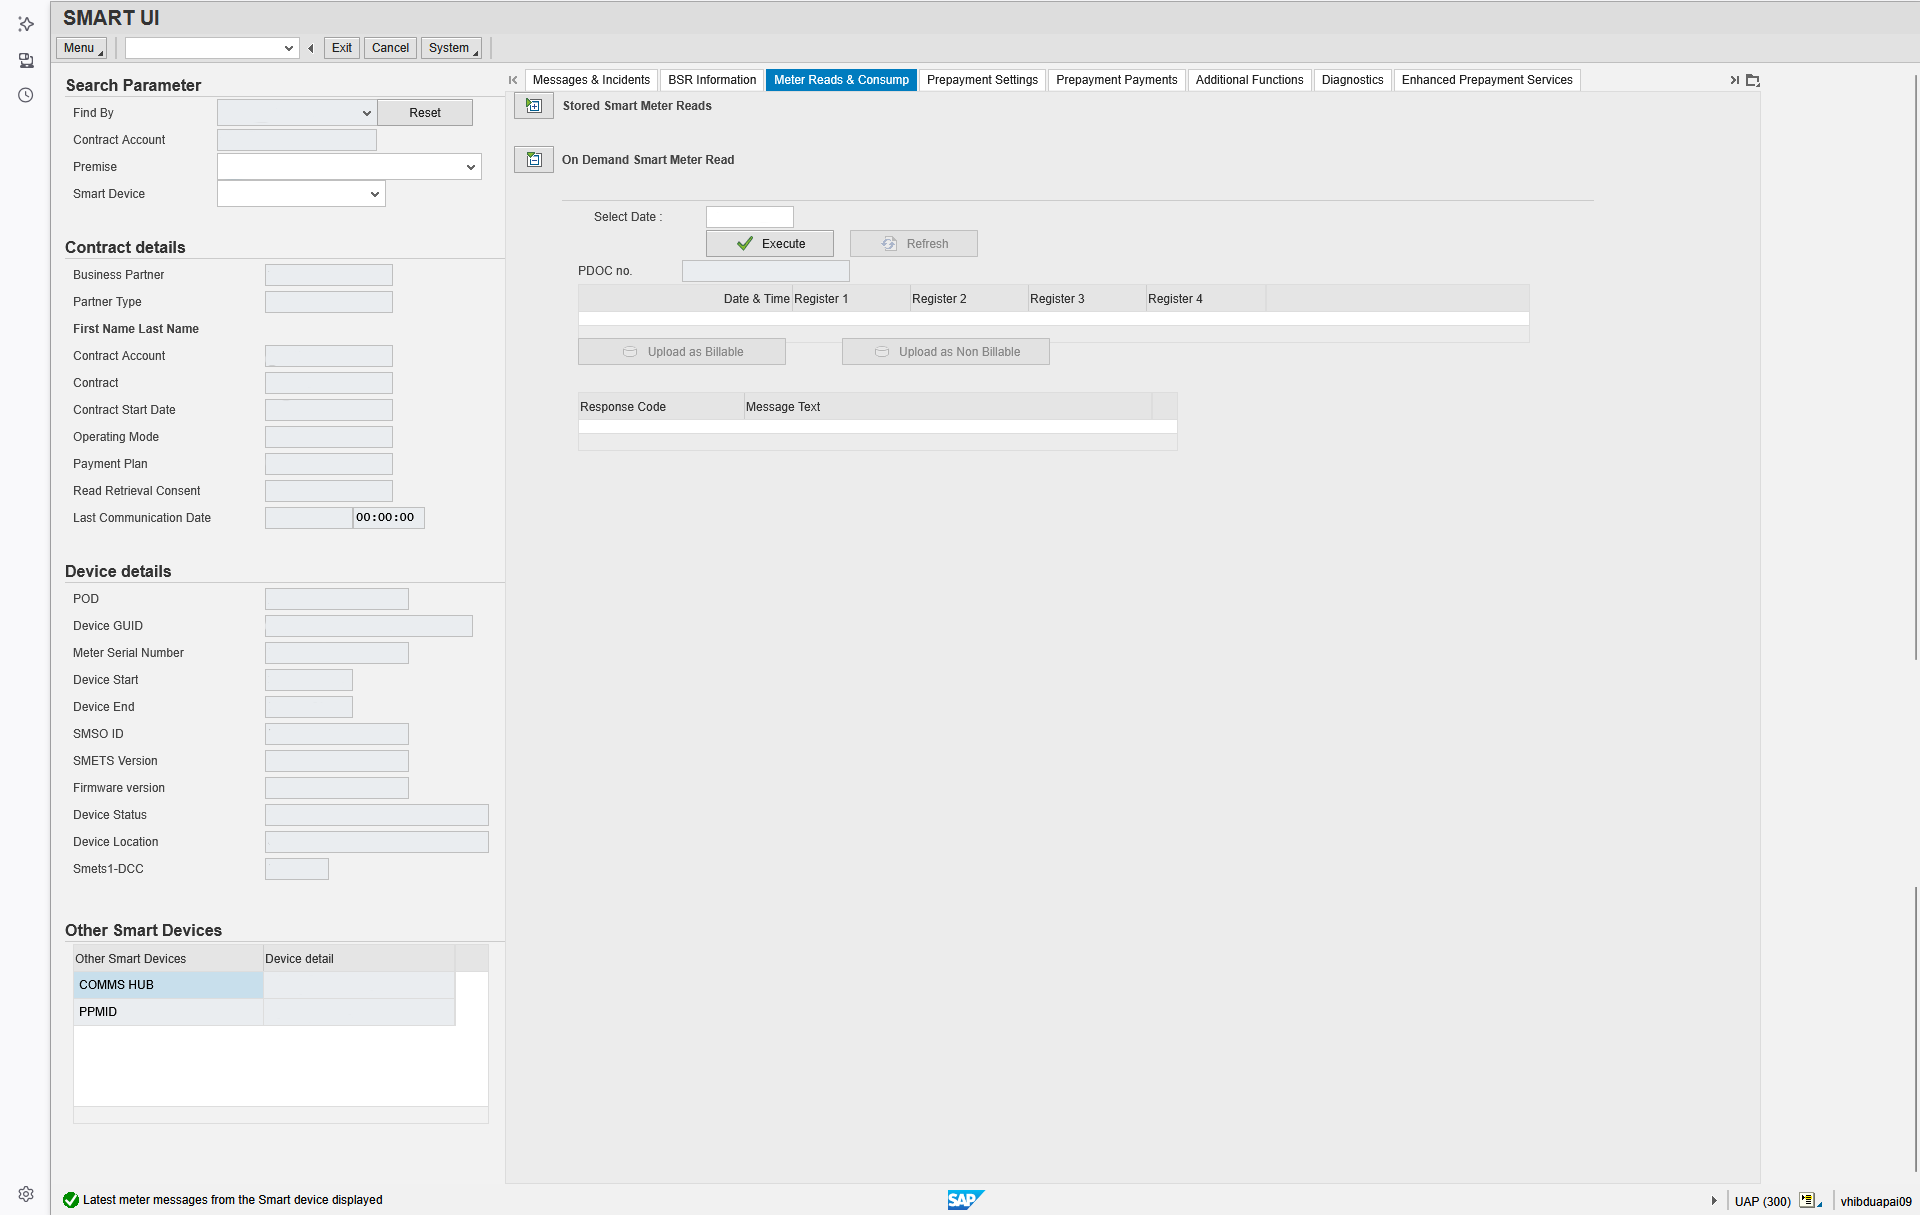
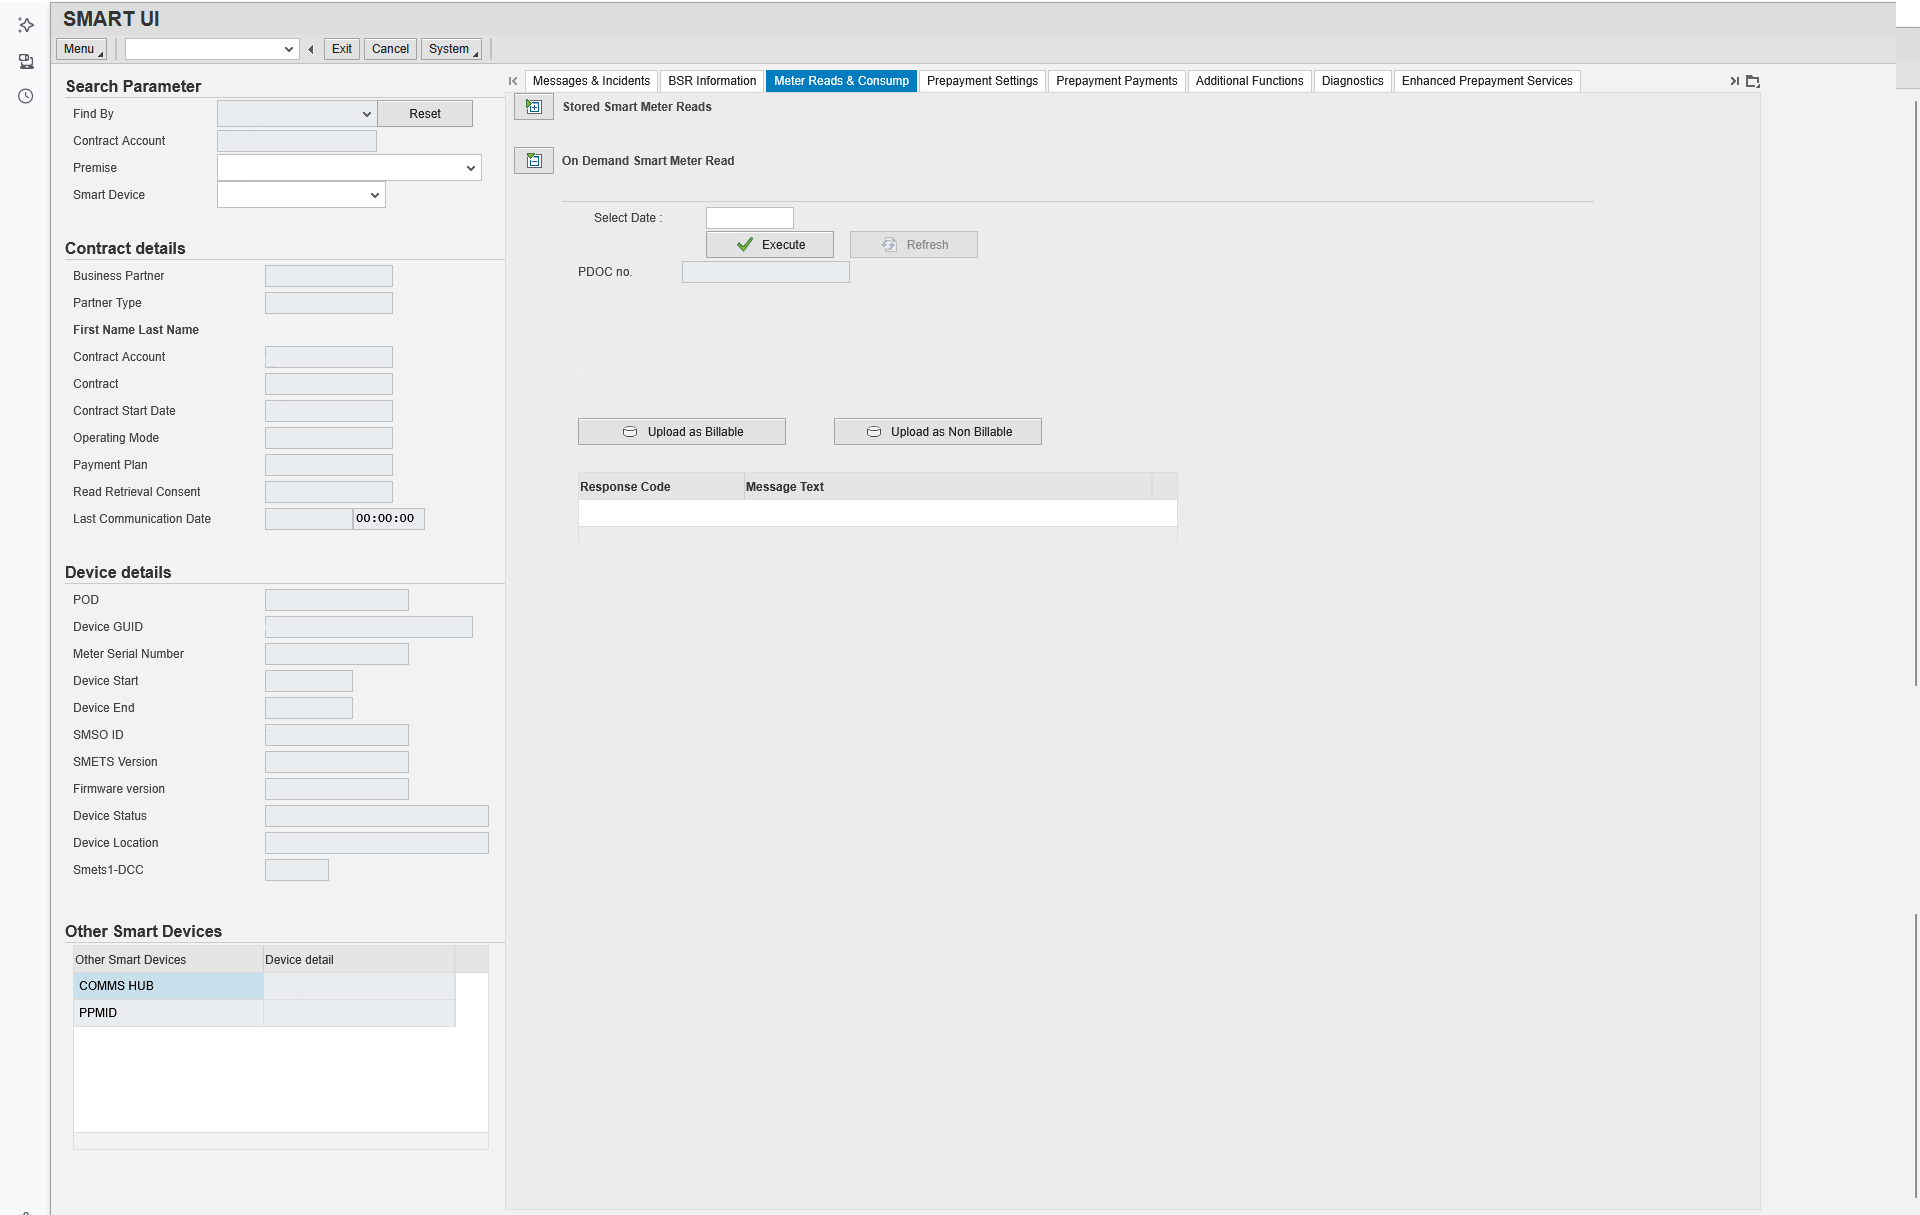
Committing gemini changes to test

diff --git a/scripts/dropdown-bsr-handler.js b/scripts/dropdown-bsr-handler.js
@@ -1,49 +1,116 @@
+// Complete code for dropdown handling (e.g., dropdown-bsr-handler.js)
 
+// --- Block 1: General Handler for ALL elements with class="custom-dropdown" ---
 document.addEventListener("DOMContentLoaded", () => {
+  // Find all generic custom dropdowns on the page
   document.querySelectorAll(".custom-dropdown").forEach(dropdown => {
-    const selected = dropdown.querySelector(".selected-option");
-    const options = dropdown.querySelector(".dropdown-options");
+      const selected = dropdown.querySelector(".selected-option");
+      const options = dropdown.querySelector(".dropdown-options");
 
-    if (!selected || !options) return;
-
-    // Toggle dropdown visibility on click
-    selected.addEventListener("click", () => {
-      const isOpen = options.style.display === "block";
-      // Close all other dropdowns
-      document.querySelectorAll(".dropdown-options").forEach(opt => opt.style.display = "none");
-      // Toggle current
-      options.style.display = isOpen ? "none" : "block";
-    });
-
-    // Handle option selection
-    options.addEventListener("click", (e) => {
-      const opt = e.target.closest("div");
-      if (opt && opt.dataset.value !== undefined) {
-        selected.textContent = opt.textContent;
-        selected.dataset.value = opt.dataset.value;
-        options.style.display = "none";
+      // If the expected inner elements aren't found, skip this dropdown
+      if (!selected || !options) {
+          // console.warn("Skipping custom dropdown setup for an element lacking .selected-option or .dropdown-options.", dropdown);
+          return;
       }
-    });
+
+      // Toggle dropdown visibility when the selected part is clicked
+      selected.addEventListener("click", (event) => {
+          event.stopPropagation(); // Prevent click from immediately closing dropdown via document listener
+          const isOpen = options.style.display === "block";
+          // Close all *other* custom dropdowns first
+          document.querySelectorAll(".custom-dropdown .dropdown-options").forEach(opt => {
+              if (opt !== options) { // Don't close the current one yet
+                  opt.style.display = "none";
+              }
+          });
+          // Toggle the display of the current dropdown's options
+          options.style.display = isOpen ? "none" : "block";
+      });
+
+      // Handle option selection when an option is clicked
+      options.addEventListener("click", (e) => {
+          // Find the actual option div that was clicked (might be text inside)
+          const opt = e.target.closest("div[data-value]"); // Ensure the clicked div has a data-value
+
+          if (opt) { // Check if a valid option was clicked
+              selected.textContent = opt.textContent; // Update displayed text
+              // If the selected element itself should store the value (optional)
+              if ('value' in selected) {
+                   selected.value = opt.dataset.value; // For input/select elements
+              }
+              // Store value in dataset for potential JS use
+              selected.dataset.value = opt.dataset.value;
+              options.style.display = "none"; // Hide options after selection
+
+              // Optional: Dispatch a change event if other code needs to react
+              // selected.dispatchEvent(new Event('change', { bubbles: true }));
+          }
+      });
   });
 
-  // Close dropdowns if clicked outside
+  // Add a listener to the whole document to close dropdowns when clicking outside
   document.addEventListener("click", (e) => {
-    if (!e.target.closest(".custom-dropdown")) {
-      document.querySelectorAll(".dropdown-options").forEach(opt => opt.style.display = "none");
-    }
+      // If the click was not inside *any* element with class "custom-dropdown"
+      if (!e.target.closest(".custom-dropdown")) {
+          // Hide all dropdown option lists
+          document.querySelectorAll(".custom-dropdown .dropdown-options").forEach(opt => {
+              opt.style.display = "none";
+          });
+      }
   });
 });
 
-// In your dropdown-bsr-handler.js or a similar file
-const dropdown = document.getElementById("readPPS_Display_Latest_Stored_Values");
-const selectedOptionDiv = dropdown.querySelector('.selected-option');
-const optionsDiv = dropdown.querySelector('.dropdown-options');
 
-// Add event listener for clicking options
-optionsDiv.querySelectorAll('div').forEach(option => {
-  option.addEventListener('click', () => {
-    const selectedValue = option.getAttribute('data-value');
-    selectedOptionDiv.textContent = option.textContent;  // Show selected option in the dropdown
-    localStorage.setItem("readPPS_Display_Latest_Stored_Values", selectedValue); // Save selection to localStorage
-  });
-});
+// --- Block 2: Corrected Specific Handler for the "#readPPS_Display_Latest_Stored_Values" dropdown ---
+// (This block now includes the check to prevent errors if the element doesn't exist)
+document.addEventListener("DOMContentLoaded", () => {
+  // Attempt to find the specific dropdown element required by this handler
+  const dropdown = document.getElementById("readPPS_Display_Latest_Stored_Values");
+
+  // *** IMPORTANT CHECK ***
+  // Only proceed with the rest of the setup if the dropdown element actually exists on this page
+  if (dropdown) {
+
+      // Now it's safe to query for elements inside the found dropdown
+      const selectedOptionDiv = dropdown.querySelector('.selected-option');
+      const optionsDiv = dropdown.querySelector('.dropdown-options');
+
+      // Further check if the necessary inner elements were found
+      if (selectedOptionDiv && optionsDiv) {
+
+          // Add event listener for clicking options within this specific dropdown
+          optionsDiv.querySelectorAll('div').forEach(option => {
+              // Ensure we're adding listener to elements that actually have a data-value
+              if (option.hasAttribute('data-value')) {
+                  option.addEventListener('click', () => {
+                      const selectedValue = option.getAttribute('data-value');
+
+                      // Update the displayed text in the dropdown
+                      selectedOptionDiv.textContent = option.textContent;
+
+                      // Update localStorage with the selected value
+                      localStorage.setItem("readPPS_Display_Latest_Stored_Values", selectedValue);
+
+                      // Optional: Hide the options list after selection
+                      optionsDiv.style.display = 'none';
+                  });
+              }
+          });
+
+          // You could add other event listeners or setup specific
+          // to '#readPPS_Display_Latest_Stored_Values' here if needed
+          // For example, maybe clicking the selectedOptionDiv should also toggle optionsDiv?
+          // selectedOptionDiv.addEventListener('click', () => { ... });
+
+      } else {
+          // Log a warning if the structure inside the found dropdown is not as expected
+          console.warn("Could not find '.selected-option' or '.dropdown-options' inside #readPPS_Display_Latest_Stored_Values.");
+      }
+
+  } else {
+      // Optional: Log that this specific dropdown isn't on the current page.
+      // This is normal if this script is loaded on pages without this dropdown.
+      // console.log("Dropdown #readPPS_Display_Latest_Stored_Values not found on this page, skipping specific handler setup.");
+  }
+
+}); // End DOMContentLoaded wrapper for the specific handler

diff --git a/html/meterreadsondemandBACKUP2.html b/html/meterreadsondemandBACKUP2.html
@@ -1,13 +1,10 @@
 <!DOCTYPE html>
-
 <html lang="en">
 <head>
 <meta charset="utf-8"/>
 <title>SmartUI Meter Reads On Demand</title>
-<!-- ✅ External stylesheet. Make changes to the fonts and style for project in that file -->
 <link rel="stylesheet" href="../styles/styles.css" />
 <style>
- 
     body {
       margin: 0;
       padding: 0;
@@ -19,29 +16,23 @@
       background: url('../images/meterreadsondemand.png') no-repeat top left;
       background-size: cover;
     }
-   
     .link-area {
       position: absolute;
       width: 100px;
       height: 20px;
       cursor: pointer;
-      
     }
   </style>
 </head>
 <body data-level="standard">
 <div id="wrapper">
-<!-- Select Date -->
 <input class="input-field" id="MR_On_Demand_Date"
   style="top: 206px; left: 707px; height:15px; width:78px; background: transparent; z-index: 10000;"
-  title="Select Date">	
+  title="Select Date">
 <input class="input-field" id="MR_PDOC"
   style="top: 260px; left: 681px; height:15px; width:160px; background: transparent; z-index: 10000;"
   title="PPDOC no">
-	
-<!-- Left side fields from core-input-fields.html inject here -->
 
-<!-- Top Link Areas -->
 <a class="link-area" href="openingpage.html" style="top: 69px; left: 524px; height:18px; width:130px"></a>
 <a class="link-area" href="BSRinformation.html" style="top: 69px; left: 660px; height:18px; width:100px"></a>
 <a class="link-area" href="meterreads.html" style="top: 69px; left: 766px; height:18px; width:146px"></a>
@@ -50,39 +41,54 @@
 <a class="link-area" href="additionalfunctions.html" style="top: 69px; left: 1189px; height:18px; width:119px"></a>
 <a class="link-area" href="diagnostics.html" style="top: 69px; left: 1313px; height:18px; width:76px"></a>
 <a class="link-area" href="enhancedprepaymentservice.html" style="top: 69px; left: 1394px; height:18px; width:183px"></a>
-<!-- Internal Page Links-->
 <a class="link-area" href="meterreadsstored.html" style="top: 92px; left: 514px; height:25px; width:38px"></a>
 <a class="link-area" href="meterreads.html" style="top: 146px; left: 514px; height:25px; width:38px"></a>
-</div>
-<!-- Execute button -->
-	<a id="executeOnDemandReads" href="#"
+
+<a id="executeOnDemandReads" href="#"
    style="position: absolute; top: 230px; left: 706px; height: 27px; width: 128px; ">
   <img src="../images/buttons/executegreyxxw.png"
        onmouseover="this.src='../images/buttons/executebluexxw.png';"
        onmouseout="this.src='../images/buttons/executegreyxxw.png';"
-       alt=""
-	   style="width: 128px; height: 27px; display: block;" />
-	</a>
+       alt="Execute"
+       style="width: 128px; height: 27px; display: block;" />
+</a>
 
-		<!--Reset Button -->
-<a href="#"
-   style="position: absolute; top: 99px; left: 377px; height: 27px; width: 96px;">
+<a href="#" id="resetButton" style="position: absolute; top: 99px; left: 377px; height: 27px; width: 96px;">
   <img src="../images/buttons/resetgrey.png"
        onmouseover="this.src='../images/buttons/resetblue.png';"
        onmouseout="this.src='../images/buttons/resetgrey.png';"
-       alt=""
+       alt="Reset"
        style="width: 96px; height: 27px; display: block;" />
-</a>	
-<script src="/smartui/scripts/smartui-loader.js"></script>
+</a>
+
+<div class="utrn-frame" style="position: absolute; top: 290px; left: 565px; width: 890px; height: 60px; /* Adjusted height for header + 1 row */ border: 1px solid #f2f2f2; background-color: rgba(255, 255, 255, 0.2); overflow-y: auto; overflow-x: hidden; font-family: 'MS Sans Serif', 'Segoe UI', Tahoma, sans-serif; font-size: 13px; color: #4d4d4d; transform: scaleX(0.97); scrollbar-width: auto; z-index: 1;">
+  <div class="table-header" style="display: grid; grid-template-columns: 160px 75px 75px 75px 75px 110px 110px; min-width: 740px; height: 25px; background-color: #e5e5e5; border-bottom: 1px solid #d0d0d0; position: sticky; top: 0; z-index: 10;">
+    <div>Date & Time</div>
+    <div>Register 1</div>
+    <div>Register 2</div>
+    <div>Register 3</div>
+    <div>Register 4</div>
+    <div>Total (kWh/m³)</div>
+    <div>Average (kWh/m³)</div>
+  </div>
+  <div id="ondemandreads-table">
+      
+  </div>
+</div>
+</div> <script src="/smartui/scripts/smartui-loader.js"></script>
 <script src="/smartui/scripts/utrn-table-loader.js"></script>
 <script src="/smartui/scripts/dropdown-generate-reason.js"></script>
+<script src="/smartui/scripts/w3.js"></script>
+<script>w3.includeHTML();</script>
 <script src="/smartui/scripts/reset-scenario-handler.js"></script>
-<!-- Tippy tooltip styles -->
+
 <link rel="stylesheet" href="/smartui/styles/tippy.css" />
-<!-- Tooltip scripts -->
+
 <script src="/smartui/scripts/popper.js"></script>
 <script src="/smartui/scripts/tippy.umd.js"></script>
 <script src="/smartui/scripts/dropdown-bsr-handler.js"></script>
-<script src="../scripts/storedreads-loader.js"></script>
+
+<script src="/smartui/scripts/ondemandreads-loader.js"></script>
+
 </body>
 </html>

diff --git a/scripts/ondemandreads-loader.js b/scripts/ondemandreads-loader.js
@@ -1,0 +1,35 @@
+// --- Full Corrected Code for: /smartui/scripts/ondemandreads-loader.js ---
+
+document.addEventListener('DOMContentLoaded', () => {
+    // Get references to the key HTML elements
+    const dateInput = document.getElementById("MR_On_Demand_Date");
+    const executeBtn = document.getElementById("executeOnDemandReads");
+    const tableBody = document.getElementById("ondemandreads-table"); // This element MUST exist in the HTML
+    const tableWrapper = tableBody ? tableBody.closest('.utrn-frame') : null; // Optional: find parent wrapper
+
+    /**
+     * Parses a "DD.MM.YYYY" string into a JavaScript Date object (at midnight UTC).
+     * Returns null if the format is invalid or the date doesn't make sense.
+     * @param {string} dateStr - The date string in "DD.MM.YYYY" format.
+     * @returns {Date | null} - The corresponding Date object or null if invalid.
+     */
+    function parseUKDate(dateStr) {
+        if (!dateStr || !/^\d{2}\.\d{2}\.\d{4}$/.test(dateStr)) {
+            // console.error("Invalid UK date string format:", dateStr); // Keep console logs minimal unless debugging
+            return null;
+        }
+        const parts = dateStr.split(".");
+        const day = parseInt(parts[0], 10);
+        const month = parseInt(parts[1], 10); // Month from string is 1-12
+        const year = parseInt(parts[2], 10);
+
+        if (isNaN(day) || isNaN(month) || isNaN(year) || month < 1 || month > 12 || day < 1 || day > 31) {
+            // console.error("Invalid date components after parsing:", dateStr);
+            return null;
+        }
+        // Create Date object using UTC to avoid timezone issues; month is 0-indexed
+        const date = new Date(Date.UTC(year, month - 1, day));
+
+        // Verify that the created date matches the input components (e.g., handles Feb 30th)
+        if (date.getUTCFullYear() !== year || date.getUTCMonth() !== month - 1 || date.getUTCDate() !== day) {
+            // console.error("Date object mismatch (invalid date like Feb 30?):", dateStr);

diff --git a/scripts/ondemandreads-loaderBACKUP.js b/scripts/ondemandreads-loaderBACKUP.js
@@ -1,0 +1,35 @@
+// --- Full Corrected Code for: /smartui/scripts/ondemandreads-loader.js ---
+
+document.addEventListener('DOMContentLoaded', () => {
+    // Get references to the key HTML elements
+    const dateInput = document.getElementById("MR_On_Demand_Date");
+    const executeBtn = document.getElementById("executeOnDemandReads");
+    const tableBody = document.getElementById("ondemandreads-table"); // This element MUST exist in the HTML
+    const tableWrapper = tableBody ? tableBody.closest('.utrn-frame') : null; // Optional: find parent wrapper
+
+    /**
+     * Parses a "DD.MM.YYYY" string into a JavaScript Date object (at midnight UTC).
+     * Returns null if the format is invalid or the date doesn't make sense.
+     * @param {string} dateStr - The date string in "DD.MM.YYYY" format.
+     * @returns {Date | null} - The corresponding Date object or null if invalid.
+     */
+    function parseUKDate(dateStr) {
+        if (!dateStr || !/^\d{2}\.\d{2}\.\d{4}$/.test(dateStr)) {
+            // console.error("Invalid UK date string format:", dateStr); // Keep console logs minimal unless debugging
+            return null;
+        }
+        const parts = dateStr.split(".");
+        const day = parseInt(parts[0], 10);
+        const month = parseInt(parts[1], 10); // Month from string is 1-12
+        const year = parseInt(parts[2], 10);
+
+        if (isNaN(day) || isNaN(month) || isNaN(year) || month < 1 || month > 12 || day < 1 || day > 31) {
+            // console.error("Invalid date components after parsing:", dateStr);
+            return null;
+        }
+        // Create Date object using UTC to avoid timezone issues; month is 0-indexed
+        const date = new Date(Date.UTC(year, month - 1, day));
+
+        // Verify that the created date matches the input components (e.g., handles Feb 30th)
+        if (date.getUTCFullYear() !== year || date.getUTCMonth() !== month - 1 || date.getUTCDate() !== day) {
+            // console.error("Date object mismatch (invalid date like Feb 30?):", dateStr);

diff --git a/html/meterreadsstored.html b/html/meterreadsstored.html
@@ -63,7 +63,7 @@
 	
 <!--- This is the table with the meter reads in it -->
 	
-<div id="storedreads-frame" class="utrn-frame" style="position: absolute; top: 258px; left: 565px; width: 890px; height: 122px; border: 1px solid #f2f2f2; background-color: rgba(255, 255, 255, 0.2); overflow-y: scroll; overflow-x: scroll; font-family: 'MS Sans Serif', 'Segoe UI', Tahoma, sans-serif; font-size: 13px; color: #4d4d4d; transform: scaleX(0.97); scrollbar-width: auto; ">
+<div class="utrn-frame" style="position: absolute; top: 258px; left: 565px; width: 890px; height: 122px; border: 1px solid #f2f2f2; background-color: rgba(255, 255, 255, 0.2); overflow-y: scroll; overflow-x: scroll; font-family: 'MS Sans Serif', 'Segoe UI', Tahoma, sans-serif; font-size: 13px; color: #4d4d4d; transform: scaleX(0.97); scrollbar-width: auto; ">
   <div class="table-header" style="display: grid; grid-template-columns: 160px 75px 75px 75px 75px 110px 110px; min-width: 740px; height: 25px; background-color: #e5e5e5; border-bottom: 1px solid #d0d0d0; position: sticky; top: 0; z-index: 10;">
     <div>Date & Time</div>
     <div>Register 1</div>
